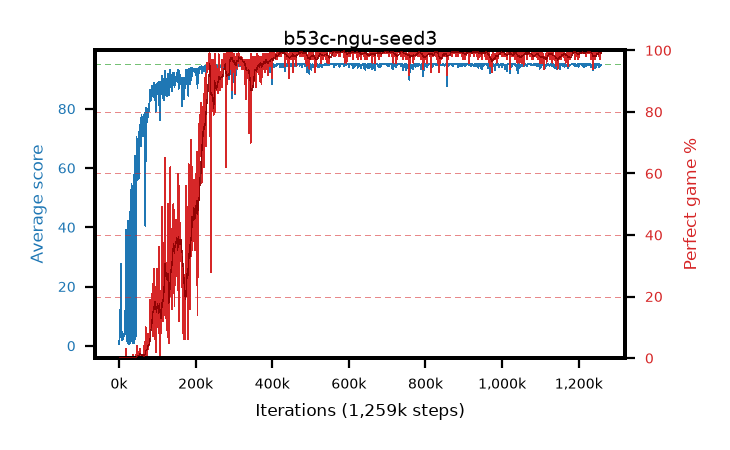
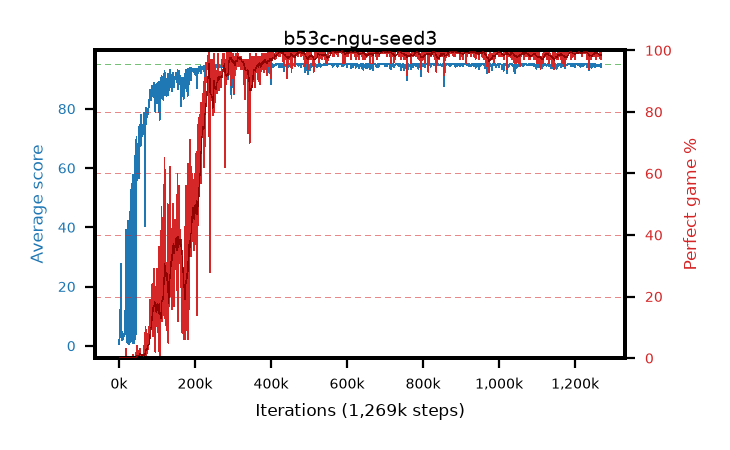
live pictures of 4 arm(s)

diff --git a/results/b53d-ngu-seed4/b53d-ngu-seed4.md b/results/b53d-ngu-seed4/b53d-ngu-seed4.md
@@ -1,6 +1,6 @@
 # b53d-ngu-seed4
 
-step **1,269,000** · 1269 evals · trailing **94.52** · peak **94.94** @1,040,000 · sef **76.2** · best30 **99.7** @1,024,000
+step **1,279,000** · 1279 evals · trailing **94.56** · peak **94.94** @1,040,000 · sef **76.4** · best30 **99.7** @1,024,000
 
 ## Config
 
@@ -80,15 +80,15 @@ step **1,269,000** · 1269 evals · trailing **94.52** · peak **94.94** @1,040,
 | 2000 | 2.39 | 1.47 | 0.0 | 8.0 | 1.286 | 0.0 | 0.4 |
 | 3000 | 6.99 | 3.31 | 0.0 | 25.0 | 5.34 | 0.0 | 0.4 |
 | ... | ... | ... | ... | ... | ... | ... | ... |
-| 1258000 | 94.17 | 94.63 | 24.0 | 95.0 | 189.846 | 97.0 | 0.4 |
-| 1259000 | 93.49 | 94.63 | 21.0 | 95.0 | 189.108 | 97.0 | 0.4 |
-| 1260000 | 94.3 | 94.62 | 25.0 | 95.0 | 191.971 | 99.0 | 0.4 |
-| 1261000 | 95.0 | 94.62 | 95.0 | 95.0 | 193.706 | 100.0 | 0.4 |
-| 1262000 | 94.85 | 94.61 | 80.0 | 95.0 | 192.549 | 99.0 | 0.4 |
-| 1263000 | 95.0 | 94.63 | 95.0 | 95.0 | 193.71 | 100.0 | 0.4 |
-| 1264000 | 94.91 | 94.64 | 90.0 | 95.0 | 191.598 | 98.0 | 0.4 |
-| 1265000 | 95.0 | 94.64 | 95.0 | 95.0 | 193.698 | 100.0 | 0.4 |
-| 1266000 | 94.37 | 94.61 | 32.0 | 95.0 | 192.077 | 99.0 | 0.4 |
-| 1267000 | 92.26 | 94.55 | 11.0 | 95.0 | 181.875 | 91.0 | 0.4 |
 | 1268000 | 94.21 | 94.52 | 21.0 | 95.0 | 190.848 | 98.0 | 0.4 |
 | 1269000 | 95.0 | 94.52 | 95.0 | 95.0 | 193.686 | 100.0 | 0.4 |
+| 1270000 | 94.97 | 94.52 | 92.0 | 95.0 | 192.652 | 99.0 | 0.4 |
+| 1271000 | 94.92 | 94.57 | 91.0 | 95.0 | 191.623 | 98.0 | 0.4 |
+| 1272000 | 95.0 | 94.57 | 95.0 | 95.0 | 193.676 | 100.0 | 0.4 |
+| 1273000 | 94.33 | 94.59 | 28.0 | 95.0 | 191.979 | 99.0 | 0.4 |
+| 1274000 | 94.9 | 94.59 | 85.0 | 95.0 | 192.57 | 99.0 | 0.4 |
+| 1275000 | 95.0 | 94.59 | 95.0 | 95.0 | 193.694 | 100.0 | 0.4 |
+| 1276000 | 94.17 | 94.57 | 15.0 | 95.0 | 190.833 | 98.0 | 0.4 |
+| 1277000 | 95.0 | 94.57 | 95.0 | 95.0 | 193.705 | 100.0 | 0.4 |
+| 1278000 | 94.76 | 94.56 | 76.0 | 95.0 | 191.462 | 98.0 | 0.4 |
+| 1279000 | 95.0 | 94.56 | 95.0 | 95.0 | 193.694 | 100.0 | 0.4 |

diff --git a/results/b53c-ngu-seed3/b53c-ngu-seed3.md b/results/b53c-ngu-seed3/b53c-ngu-seed3.md
@@ -1,6 +1,6 @@
 # b53c-ngu-seed3
 
-step **1,259,000** · 1259 evals · trailing **94.67** · peak **94.93** @574,000 · sef **81.8** · best30 **99.6** @585,000
+step **1,269,000** · 1269 evals · trailing **94.7** · peak **94.93** @574,000 · sef **82.0** · best30 **99.6** @585,000
 
 ## Config
 
@@ -80,15 +80,15 @@ step **1,259,000** · 1259 evals · trailing **94.67** · peak **94.93** @574,00
 | 2000 | 6.19 | 3.38 | 0.0 | 14.0 | 2.147 | 0.0 | 0.4 |
 | 3000 | 12.02 | 6.26 | 1.0 | 18.0 | 7.496 | 0.0 | 0.4 |
 | ... | ... | ... | ... | ... | ... | ... | ... |
-| 1248000 | 95.0 | 94.73 | 95.0 | 95.0 | 193.693 | 100.0 | 0.4 |
-| 1249000 | 94.95 | 94.73 | 90.0 | 95.0 | 192.614 | 99.0 | 0.4 |
-| 1250000 | 95.0 | 94.75 | 95.0 | 95.0 | 193.718 | 100.0 | 0.4 |
-| 1251000 | 95.0 | 94.75 | 95.0 | 95.0 | 193.708 | 100.0 | 0.4 |
-| 1252000 | 95.0 | 94.75 | 95.0 | 95.0 | 193.706 | 100.0 | 0.4 |
-| 1253000 | 94.03 | 94.72 | 46.0 | 95.0 | 190.63 | 98.0 | 0.4 |
-| 1254000 | 95.0 | 94.72 | 95.0 | 95.0 | 193.707 | 100.0 | 0.4 |
-| 1255000 | 94.61 | 94.71 | 56.0 | 95.0 | 192.327 | 99.0 | 0.4 |
-| 1256000 | 94.79 | 94.7 | 78.0 | 95.0 | 190.451 | 97.0 | 0.4 |
-| 1257000 | 94.45 | 94.68 | 40.0 | 95.0 | 192.123 | 99.0 | 0.4 |
 | 1258000 | 94.81 | 94.68 | 76.0 | 95.0 | 192.514 | 99.0 | 0.4 |
 | 1259000 | 94.85 | 94.67 | 80.0 | 95.0 | 192.56 | 99.0 | 0.4 |
+| 1260000 | 94.54 | 94.66 | 62.0 | 95.0 | 191.226 | 98.0 | 0.4 |
+| 1261000 | 94.9 | 94.66 | 85.0 | 95.0 | 192.537 | 99.0 | 0.4 |
+| 1262000 | 94.24 | 94.67 | 52.0 | 95.0 | 190.896 | 98.0 | 0.4 |
+| 1263000 | 94.77 | 94.66 | 75.0 | 95.0 | 191.466 | 98.0 | 0.4 |
+| 1264000 | 94.66 | 94.67 | 61.0 | 95.0 | 192.367 | 99.0 | 0.4 |
+| 1265000 | 94.96 | 94.67 | 91.0 | 95.0 | 192.633 | 99.0 | 0.4 |
+| 1266000 | 94.44 | 94.67 | 50.0 | 95.0 | 191.137 | 98.0 | 0.4 |
+| 1267000 | 93.95 | 94.7 | 44.0 | 95.0 | 189.571 | 97.0 | 0.4 |
+| 1268000 | 95.0 | 94.7 | 95.0 | 95.0 | 193.718 | 100.0 | 0.4 |
+| 1269000 | 95.0 | 94.7 | 95.0 | 95.0 | 193.672 | 100.0 | 0.4 |

diff --git a/results/b53a-ngu-seed1/b53a-ngu-seed1.md b/results/b53a-ngu-seed1/b53a-ngu-seed1.md
@@ -1,6 +1,6 @@
 # b53a-ngu-seed1
 
-step **1,269,000** · 1269 evals · trailing **94.63** · peak **94.96** @643,000 · sef **77.9** · best30 **99.7** @643,000
+step **1,279,000** · 1279 evals · trailing **94.66** · peak **94.96** @643,000 · sef **78.0** · best30 **99.7** @643,000
 
 ## Config
 
@@ -80,15 +80,15 @@ step **1,269,000** · 1269 evals · trailing **94.63** · peak **94.96** @643,00
 | 2000 | 8.43 | 4.84 | 0.0 | 21.0 | 7.201 | 0.0 | 0.4 |
 | 3000 | 8.52 | 6.07 | 0.0 | 26.0 | 5.525 | 0.0 | 0.4 |
 | ... | ... | ... | ... | ... | ... | ... | ... |
-| 1258000 | 94.38 | 94.69 | 58.0 | 95.0 | 191.027 | 98.0 | 0.4 |
-| 1259000 | 95.0 | 94.69 | 95.0 | 95.0 | 193.683 | 100.0 | 0.4 |
-| 1260000 | 94.88 | 94.7 | 83.0 | 95.0 | 192.54 | 99.0 | 0.4 |
-| 1261000 | 95.0 | 94.73 | 95.0 | 95.0 | 193.705 | 100.0 | 0.4 |
-| 1262000 | 94.27 | 94.71 | 30.0 | 95.0 | 190.902 | 98.0 | 0.4 |
-| 1263000 | 94.66 | 94.7 | 74.0 | 95.0 | 191.281 | 98.0 | 0.4 |
-| 1264000 | 94.59 | 94.71 | 59.0 | 95.0 | 191.245 | 98.0 | 0.4 |
-| 1265000 | 94.53 | 94.7 | 61.0 | 95.0 | 191.191 | 98.0 | 0.4 |
-| 1266000 | 94.87 | 94.71 | 88.0 | 95.0 | 191.506 | 98.0 | 0.4 |
-| 1267000 | 92.78 | 94.64 | 46.0 | 95.0 | 183.31 | 92.0 | 0.4 |
 | 1268000 | 94.66 | 94.63 | 68.0 | 95.0 | 190.309 | 97.0 | 0.4 |
 | 1269000 | 94.91 | 94.63 | 89.0 | 95.0 | 191.52 | 98.0 | 0.4 |
+| 1270000 | 94.57 | 94.62 | 54.0 | 95.0 | 191.233 | 98.0 | 0.4 |
+| 1271000 | 95.0 | 94.63 | 95.0 | 95.0 | 193.696 | 100.0 | 0.4 |
+| 1272000 | 94.84 | 94.63 | 79.0 | 95.0 | 192.529 | 99.0 | 0.4 |
+| 1273000 | 94.9 | 94.65 | 85.0 | 95.0 | 192.565 | 99.0 | 0.4 |
+| 1274000 | 94.03 | 94.62 | 7.0 | 95.0 | 189.603 | 97.0 | 0.4 |
+| 1275000 | 94.46 | 94.64 | 63.0 | 95.0 | 190.098 | 97.0 | 0.4 |
+| 1276000 | 94.26 | 94.63 | 40.0 | 95.0 | 189.825 | 97.0 | 0.4 |
+| 1277000 | 94.86 | 94.66 | 84.0 | 95.0 | 191.515 | 98.0 | 0.4 |
+| 1278000 | 94.91 | 94.66 | 86.0 | 95.0 | 192.569 | 99.0 | 0.4 |
+| 1279000 | 95.0 | 94.66 | 95.0 | 95.0 | 193.707 | 100.0 | 0.4 |
